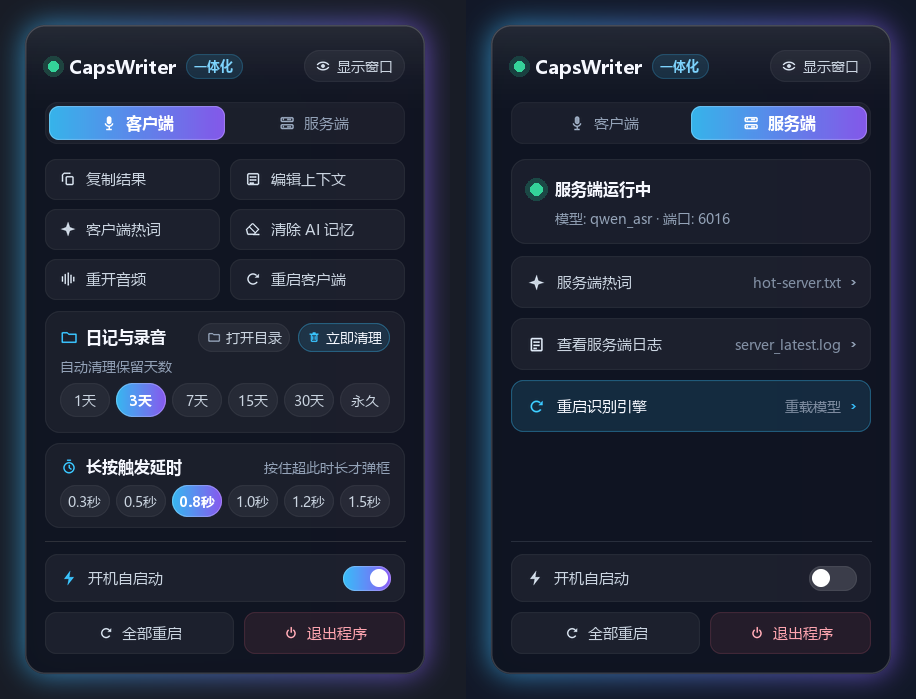
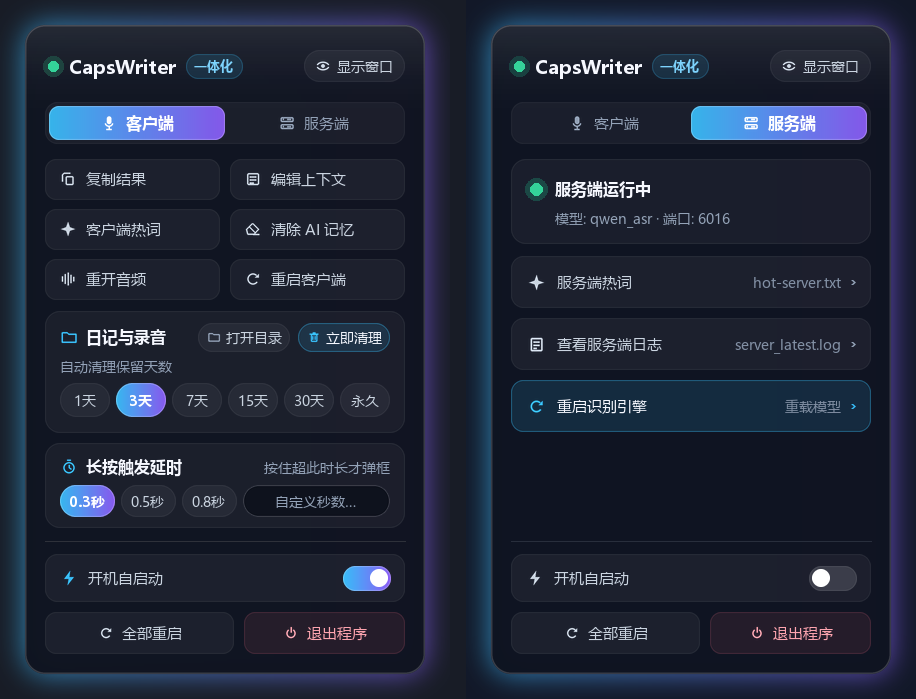
Use 0.3/0.5/0.8s presets with inline custom seconds input in tray panel

Changed region(s): [[0.0611, 0.691, 0.4279, 0.7511]]

diff --git a/core/ui/tray_panel.py b/core/ui/tray_panel.py
@@ -31,6 +31,7 @@ WM_DESTROY = 0x0002
 WM_ACTIVATE = 0x0006
 WM_SETCURSOR = 0x0020
 WM_KEYDOWN = 0x0100
+WM_CHAR = 0x0102
 WM_TIMER = 0x0113
 WM_MOUSEMOVE = 0x0200
 WM_LBUTTONDOWN = 0x0201
@@ -52,6 +53,8 @@ AC_SRC_ALPHA = 1
 TME_LEAVE = 0x00000002
 IDC_ARROW = 32512
 IDC_HAND = 32649
+VK_BACK = 0x08
+VK_RETURN = 0x0D
 VK_ESCAPE = 0x1B
 VK_LBUTTON = 0x01
 VK_RBUTTON = 0x02
@@ -258,9 +261,6 @@ THRESHOLD_CHOICES = [
     (0.3, '0.3秒'),
     (0.5, '0.5秒'),
     (0.8, '0.8秒'),
-    (1.0, '1.0秒'),
-    (1.2, '1.2秒'),
-    (1.5, '1.5秒'),
 ]
 
 
@@ -536,6 +536,8 @@ class TrayPanel:
 
         self._selected_days = self._read_retention_days()
         self._selected_threshold = self._read_threshold()
+        self._editing_threshold = False
+        self._threshold_input = ""
         self._console_visible = self._read_console_visible()
 
         self._icon_cache: Dict[Tuple, Image.Image] = {}
@@ -598,9 +600,9 @@ class TrayPanel:
         client_cfg = self.config.get('client') or {}
         fn = client_cfg.get('get_threshold')
         try:
-            return round(float(fn()), 2) if fn else 0.8
+            return round(float(fn()), 2) if fn else 0.3
         except Exception:
-            return 0.8
+            return 0.3
 
     def _sync_live_state(self) -> None:
         self._autostart_val = self._read_autostart()
@@ -609,7 +611,30 @@ class TrayPanel:
         self._switch_at = 0.0
         self._selected_days = self._read_retention_days()
         self._selected_threshold = self._read_threshold()
+        self._editing_threshold = False
+        self._threshold_input = ""
         self._console_visible = self._read_console_visible()
+
+    def _commit_custom_threshold(self) -> None:
+        """提交并保存用户输入的自定义延时秒数（0.05 ~ 5.0 秒）"""
+        raw = (self._threshold_input or '').strip()
+        self._editing_threshold = False
+        self._threshold_input = ""
+        try:
+            val = round(float(raw), 2)
+        except ValueError:
+            self._need_redraw = True
+            self._present(time.monotonic())
+            return
+
+        val = round(max(0.05, min(5.0, val)), 2)
+        self._selected_threshold = val
+        self._need_redraw = True
+        self._present(time.monotonic())
+
+        set_fn = (self.config.get('client') or {}).get('set_threshold')
+        if set_fn:
+            threading.Thread(target=set_fn, args=(val,), daemon=True).start()
 
     # ---- 布局几何与资源缓存 ----
 
@@ -774,8 +799,31 @@ class TrayPanel:
                     self._present(time.monotonic())
                 return 0
             if msg == WM_KEYDOWN:
-                if wparam == VK_ESCAPE:
+                if self._editing_threshold:
+                    if wparam == VK_ESCAPE:
+                        self._editing_threshold = False
+                        self._threshold_input = ""
+                        self._need_redraw = True
+                        self._present(time.monotonic())
+                        return 0
+                    if wparam == VK_RETURN:
+                        self._commit_custom_threshold()
+                        return 0
+                elif wparam == VK_ESCAPE:
                     self._begin_hide()
+                return 0
+            if msg == WM_CHAR:
+                if self._editing_threshold:
+                    ch = chr(wparam & 0xFFFF)
+                    if wparam == VK_BACK or ch == '\b':
+                        self._threshold_input = self._threshold_input[:-1]
+                    elif ch in '0123456789' and len(self._threshold_input) < 4:
+                        self._threshold_input += ch
+                    elif ch in '.。,' and '.' not in self._threshold_input and len(self._threshold_input) < 3:
+                        self._threshold_input = (self._threshold_input or '0') + '.'
+                    self._need_redraw = True
+                    self._present(time.monotonic())
+                    return 0
                 return 0
             if msg == WM_ACTIVATE:
                 if (wparam & 0xFFFF) == 0:  # WA_INACTIVE
@@ -830,6 +878,15 @@ class TrayPanel:
             logger.error(f"CreateWindowExW 失败: {kernel32.GetLastError()}")
             self._ready.set()
             return
+
+        # 禁用输入法组合状态，使自定义秒数框可直接键入 ASCII 数字和小数点
+        try:
+            imm32 = ctypes.WinDLL('imm32')
+            imm32.ImmAssociateContext.argtypes = [wintypes.HWND, ctypes.c_void_p]
+            imm32.ImmAssociateContext.restype = ctypes.c_void_p
+            imm32.ImmAssociateContext(self.hwnd, None)
+        except Exception:
+            pass
 
         dpi = user32.GetDpiForWindow(self.hwnd) if hasattr(user32, 'GetDpiForWindow') else 96
         self._build_assets((dpi or 96) / 96.0)
@@ -918,6 +975,8 @@ class TrayPanel:
         self._hidden_at = time.monotonic()
         self._hover_id = None
         self._press_id = None
+        self._editing_threshold = False
+        self._threshold_input = ""
         if self.hwnd:
             user32.KillTimer(self.hwnd, TIMER_ANIM)
             user32.KillTimer(self.hwnd, TIMER_GUARD)
@@ -1008,6 +1067,20 @@ class TrayPanel:
     def _invoke_hit(self, hit) -> None:
         hit_id, _, action, close_on_click = hit
         now = time.monotonic()
+        if hit_id == 'thr_custom':
+            self._editing_threshold = True
+            self._threshold_input = ""
+            self._need_redraw = True
+            self._present(now)
+            return
+        if hit_id == 'thr_confirm':
+            self._commit_custom_threshold()
+            return
+        if self._editing_threshold:
+            self._editing_threshold = False
+            self._threshold_input = ""
+            self._need_redraw = True
+            self._present(now)
         if hit_id == 'tab_0':
             if self._active_tab != 0:
                 self._tab_from = self._current_tab_pos(now)
@@ -1349,11 +1422,66 @@ class TrayPanel:
             '按住超此时长才弹框', font=self.f_small, fill=TEXT_MUTED + (255,), anchor='rm',
         )
 
+        tpy0 = ty0 + int(round(34 * s))
+        tph = int(round(26 * s))
+        t_pcy = tpy0 + tph // 2
+        cur_thr = float(getattr(self, '_selected_threshold', 0.3))
+        editing = bool(getattr(self, '_editing_threshold', False))
+        set_thr = client_cfg.get('set_threshold')
+
+        pgap = int(round(5 * s))
+        pw = int(round(44 * s))
+        left_w = len(THRESHOLD_CHOICES) * pw + (len(THRESHOLD_CHOICES) - 1) * pgap
         self._render_pill_row(
-            frame, d, hits, rx0, ty0 + int(round(34 * s)), rw, int(round(26 * s)),
-            THRESHOLD_CHOICES, 'thr_', getattr(self, '_selected_threshold', 0.8),
-            client_cfg.get('set_threshold'), tol=0.05,
+            frame, d, hits, rx0, tpy0, left_w, tph,
+            THRESHOLD_CHOICES, 'thr_', -1.0 if editing else cur_thr,
+            set_thr, tol=0.005,
         )
+
+        # 右侧剩余空白区域：自定义秒数输入框
+        cx0 = rx0 + left_w + pgap
+        cx1 = rx0 + rw
+        if editing:
+            confirm_w = int(round(36 * s))
+            gap_c = int(round(4 * s))
+            inp_x1 = cx1 - confirm_w - gap_c
+            inp_rect = (cx0, tpy0, inp_x1, tpy0 + tph)
+            inp_box = _draw_rr(
+                (inp_x1 - cx0, tph), tph / 2,
+                fill=(8, 12, 22, 230), outline=(56, 189, 248, 220), width=1.4,
+            )
+            frame.alpha_composite(inp_box, (cx0, tpy0))
+            inp_str = getattr(self, '_threshold_input', '') or ''
+            if inp_str:
+                disp, tcol = f"{inp_str}| 秒", TEXT_PRIMARY
+            else:
+                disp, tcol = "输入(如0.25)|", TEXT_MUTED
+            d.text(((cx0 + inp_x1) // 2, t_pcy), disp, font=self.f_small, fill=tcol + (255,), anchor='mm')
+            hits.append(('thr_custom', inp_rect, None, False))
+
+            cfm_x0 = cx1 - confirm_w
+            cfm_rect = (cfm_x0, tpy0, cx1, tpy0 + tph)
+            cfm_pill = _draw_grad_pill(confirm_w, tph, tph / 2, ACCENT_C1, ACCENT_C2, 245)
+            frame.alpha_composite(cfm_pill, (cfm_x0, tpy0))
+            d.text(((cfm_x0 + cx1) // 2, t_pcy), '确定', font=self.f_small_bold, fill=(255, 255, 255, 255), anchor='mm')
+            hits.append(('thr_confirm', cfm_rect, None, False))
+        else:
+            crect = (cx0, tpy0, cx1, tpy0 + tph)
+            is_custom = all(abs(cur_thr - v) >= 0.005 for v, _ in THRESHOLD_CHOICES)
+            if is_custom:
+                self._draw_tile(frame, 'thr_custom', crect, tph / 2, selected=True)
+                d.text(
+                    ((cx0 + cx1) // 2, t_pcy),
+                    f"自定义: {cur_thr:g}秒", font=self.f_small_bold, fill=(255, 255, 255, 255), anchor='mm',
+                )
+            else:
+                hovered_c = self._hover_id == 'thr_custom'
+                outline_c = (56, 189, 248, 110) if hovered_c else (255, 255, 255, 38)
+                box = _draw_rr((cx1 - cx0, tph), tph / 2, fill=(8, 12, 22, 165), outline=outline_c, width=1)
+                frame.alpha_composite(box, (cx0, tpy0))
+                tcol = TEXT_PRIMARY if hovered_c else TEXT_MUTED
+                d.text(((cx0 + cx1) // 2, t_pcy), '自定义秒数…', font=self.f_small, fill=tcol + (255,), anchor='mm')
+            hits.append(('thr_custom', crect, None, False))
 
     def _render_pill_row(
         self,

diff --git a/core/client/manager/tray_manager.py b/core/client/manager/tray_manager.py
@@ -77,11 +77,11 @@ class TrayManager:
 
         threshold_menu = [
             (
-                f'{sec:g} 秒' + (' (推荐)' if sec == 0.8 else ''),
+                f'{sec:g} 秒' + (' (默认)' if sec == 0.3 else ''),
                 lambda icon=None, item=None, s=sec: self._set_threshold(s),
-                {'checked': lambda _, s=sec: abs(getattr(Config, 'threshold', 0.8) - s) < 0.05},
+                {'checked': lambda _, s=sec: abs(getattr(Config, 'threshold', 0.3) - s) < 0.005},
             )
-            for sec in (0.3, 0.5, 0.8, 1.0, 1.2, 1.5)
+            for sec in (0.3, 0.5, 0.8)
         ]
 
         diary_submenu = [
@@ -138,7 +138,7 @@ class TrayManager:
                     'get_retention_days': lambda: getattr(Config, 'auto_clean_days', 3),
                     'set_retention_days': self._set_retention_days,
                 },
-                'get_threshold': lambda: getattr(Config, 'threshold', 0.8),
+                'get_threshold': lambda: getattr(Config, 'threshold', 0.3),
                 'set_threshold': self._set_threshold,
             },
         }

diff --git a/config_client.py b/config_client.py
@@ -32,7 +32,7 @@ class ClientConfig:
         },
     ]
 
-    threshold    = 0.8          # 快捷键触发阈值（秒）：按住达到此时长才弹出语音悬浮窗并识别，短于此时长视为普通按键/点击
+    threshold    = 0.3          # 快捷键触发阈值（秒）：按住达到此时长才弹出语音悬浮窗并识别，短于此时长视为普通按键/点击
 
     paste        = True         # 是否以写入剪切板然后模拟 Ctrl-V 粘贴的方式输出结果
     restore_clip = True         # 模拟粘贴后是否恢复剪贴板

diff --git a/core/client/shortcut/task.py b/core/client/shortcut/task.py
@@ -51,7 +51,7 @@ class ShortcutTask:
         self.pressed: bool = False
         self.released: bool = True
         self.event: Event = Event()
-        self.threshold: float = 0.8
+        self.threshold: float = 0.3
         self.pending_release: bool = False
         self.overlay_shown: bool = False
         self._overlay_lock: Lock = Lock()
